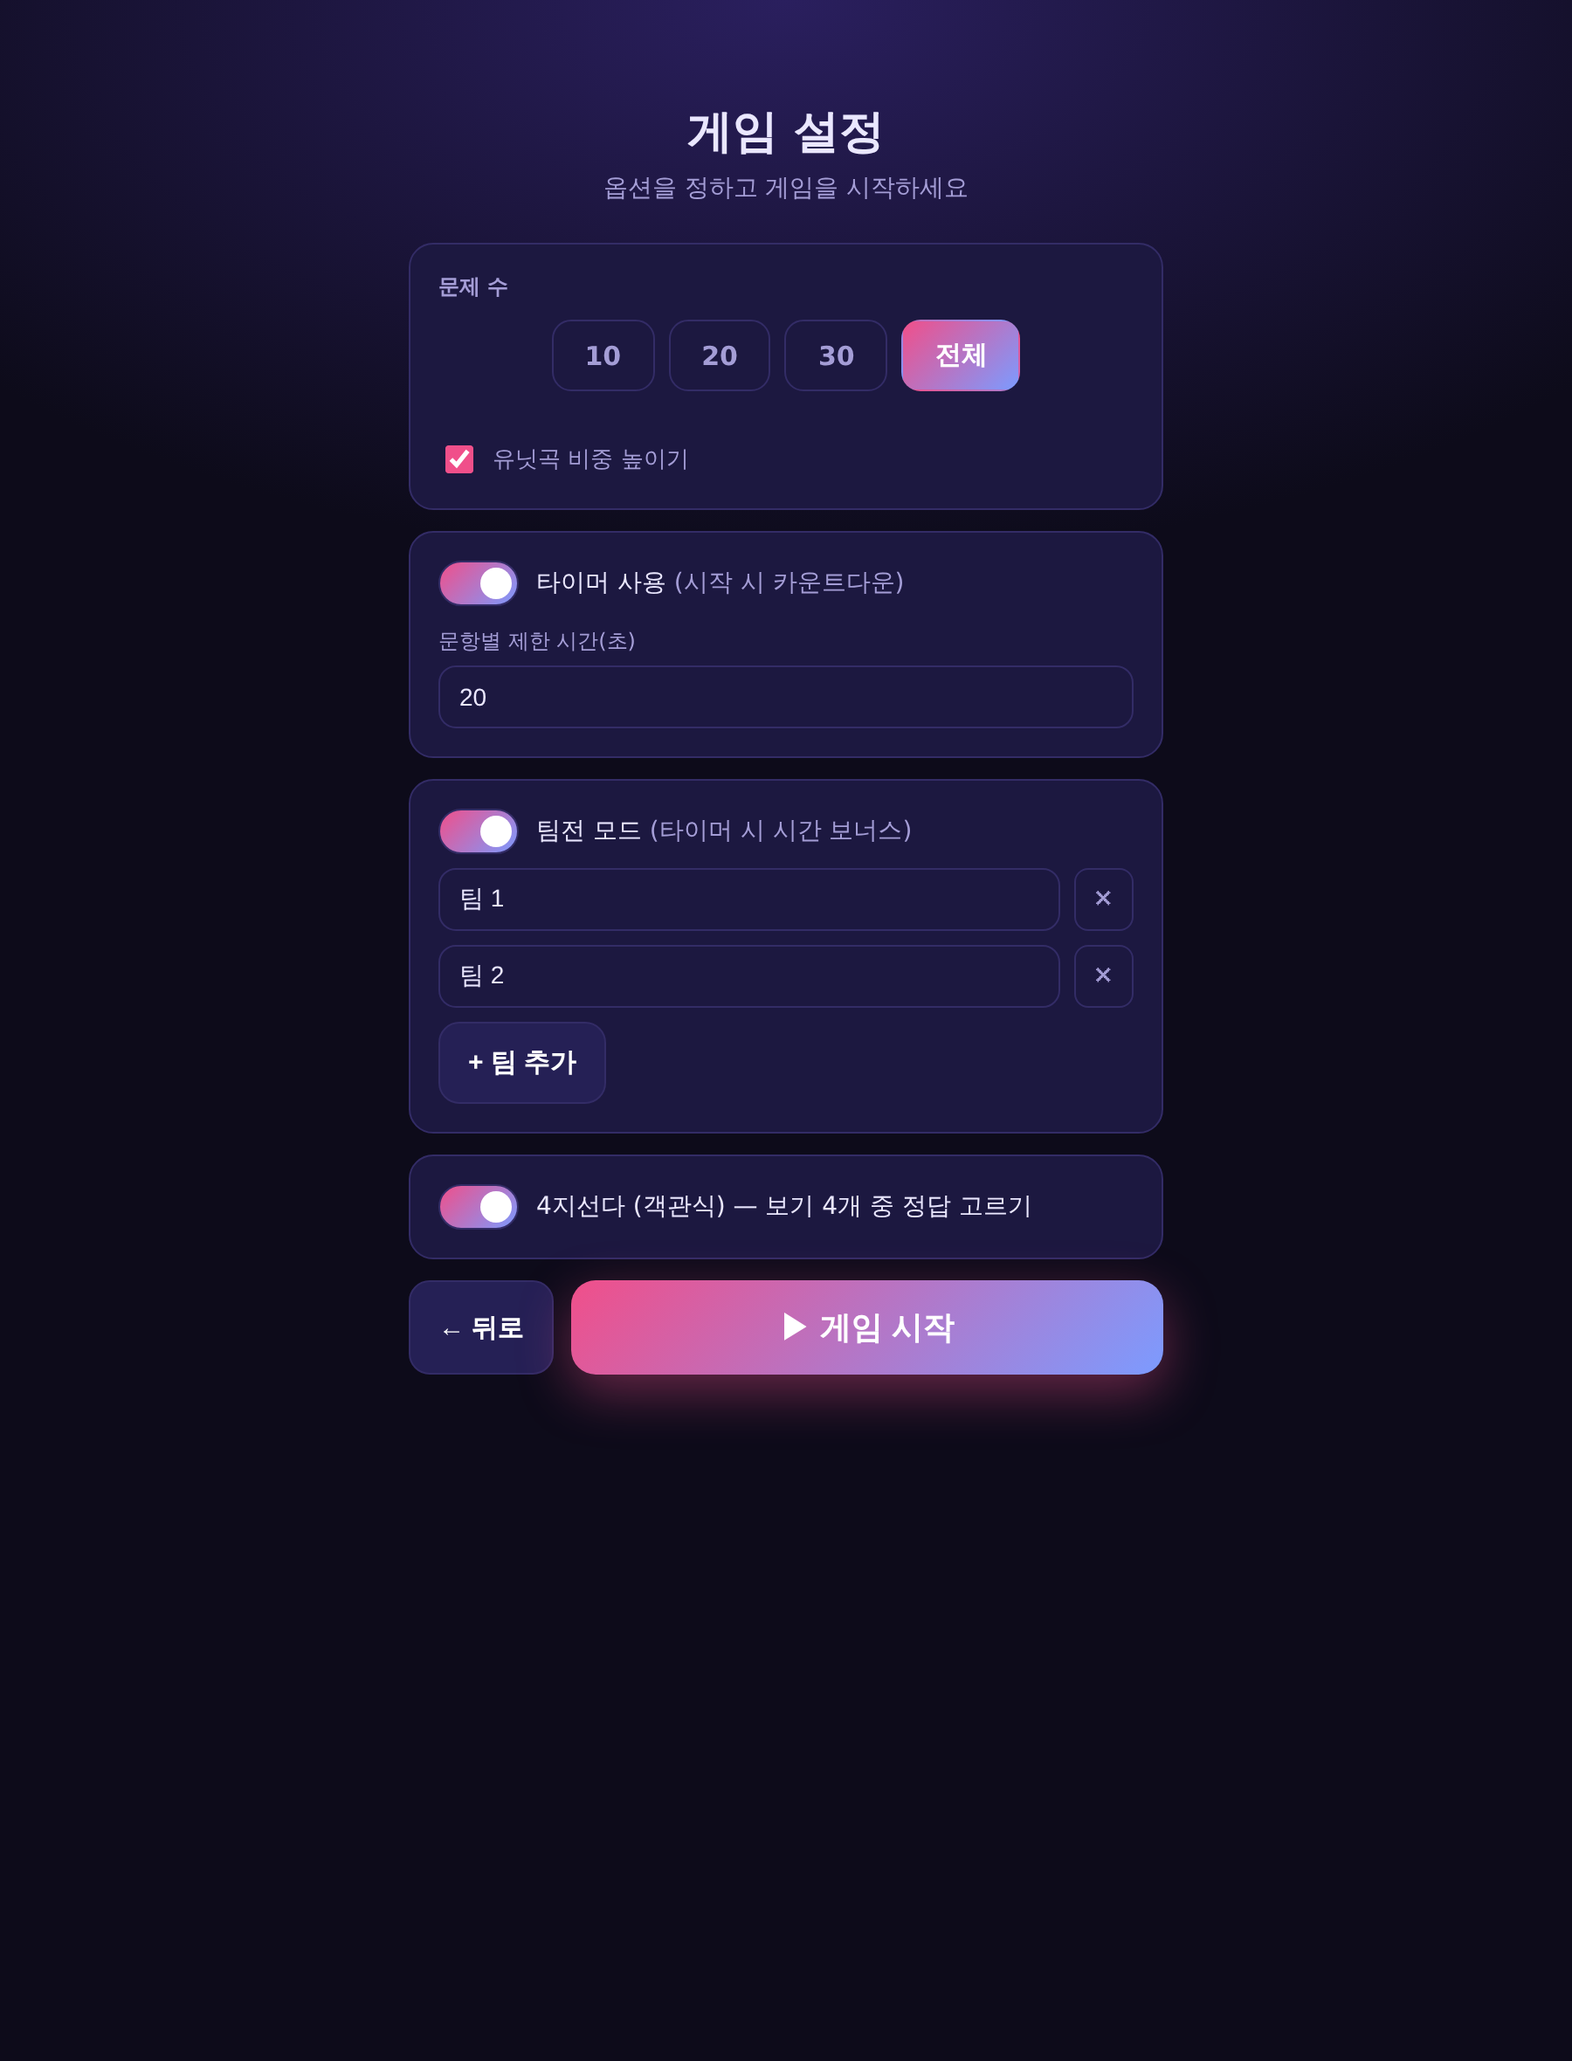
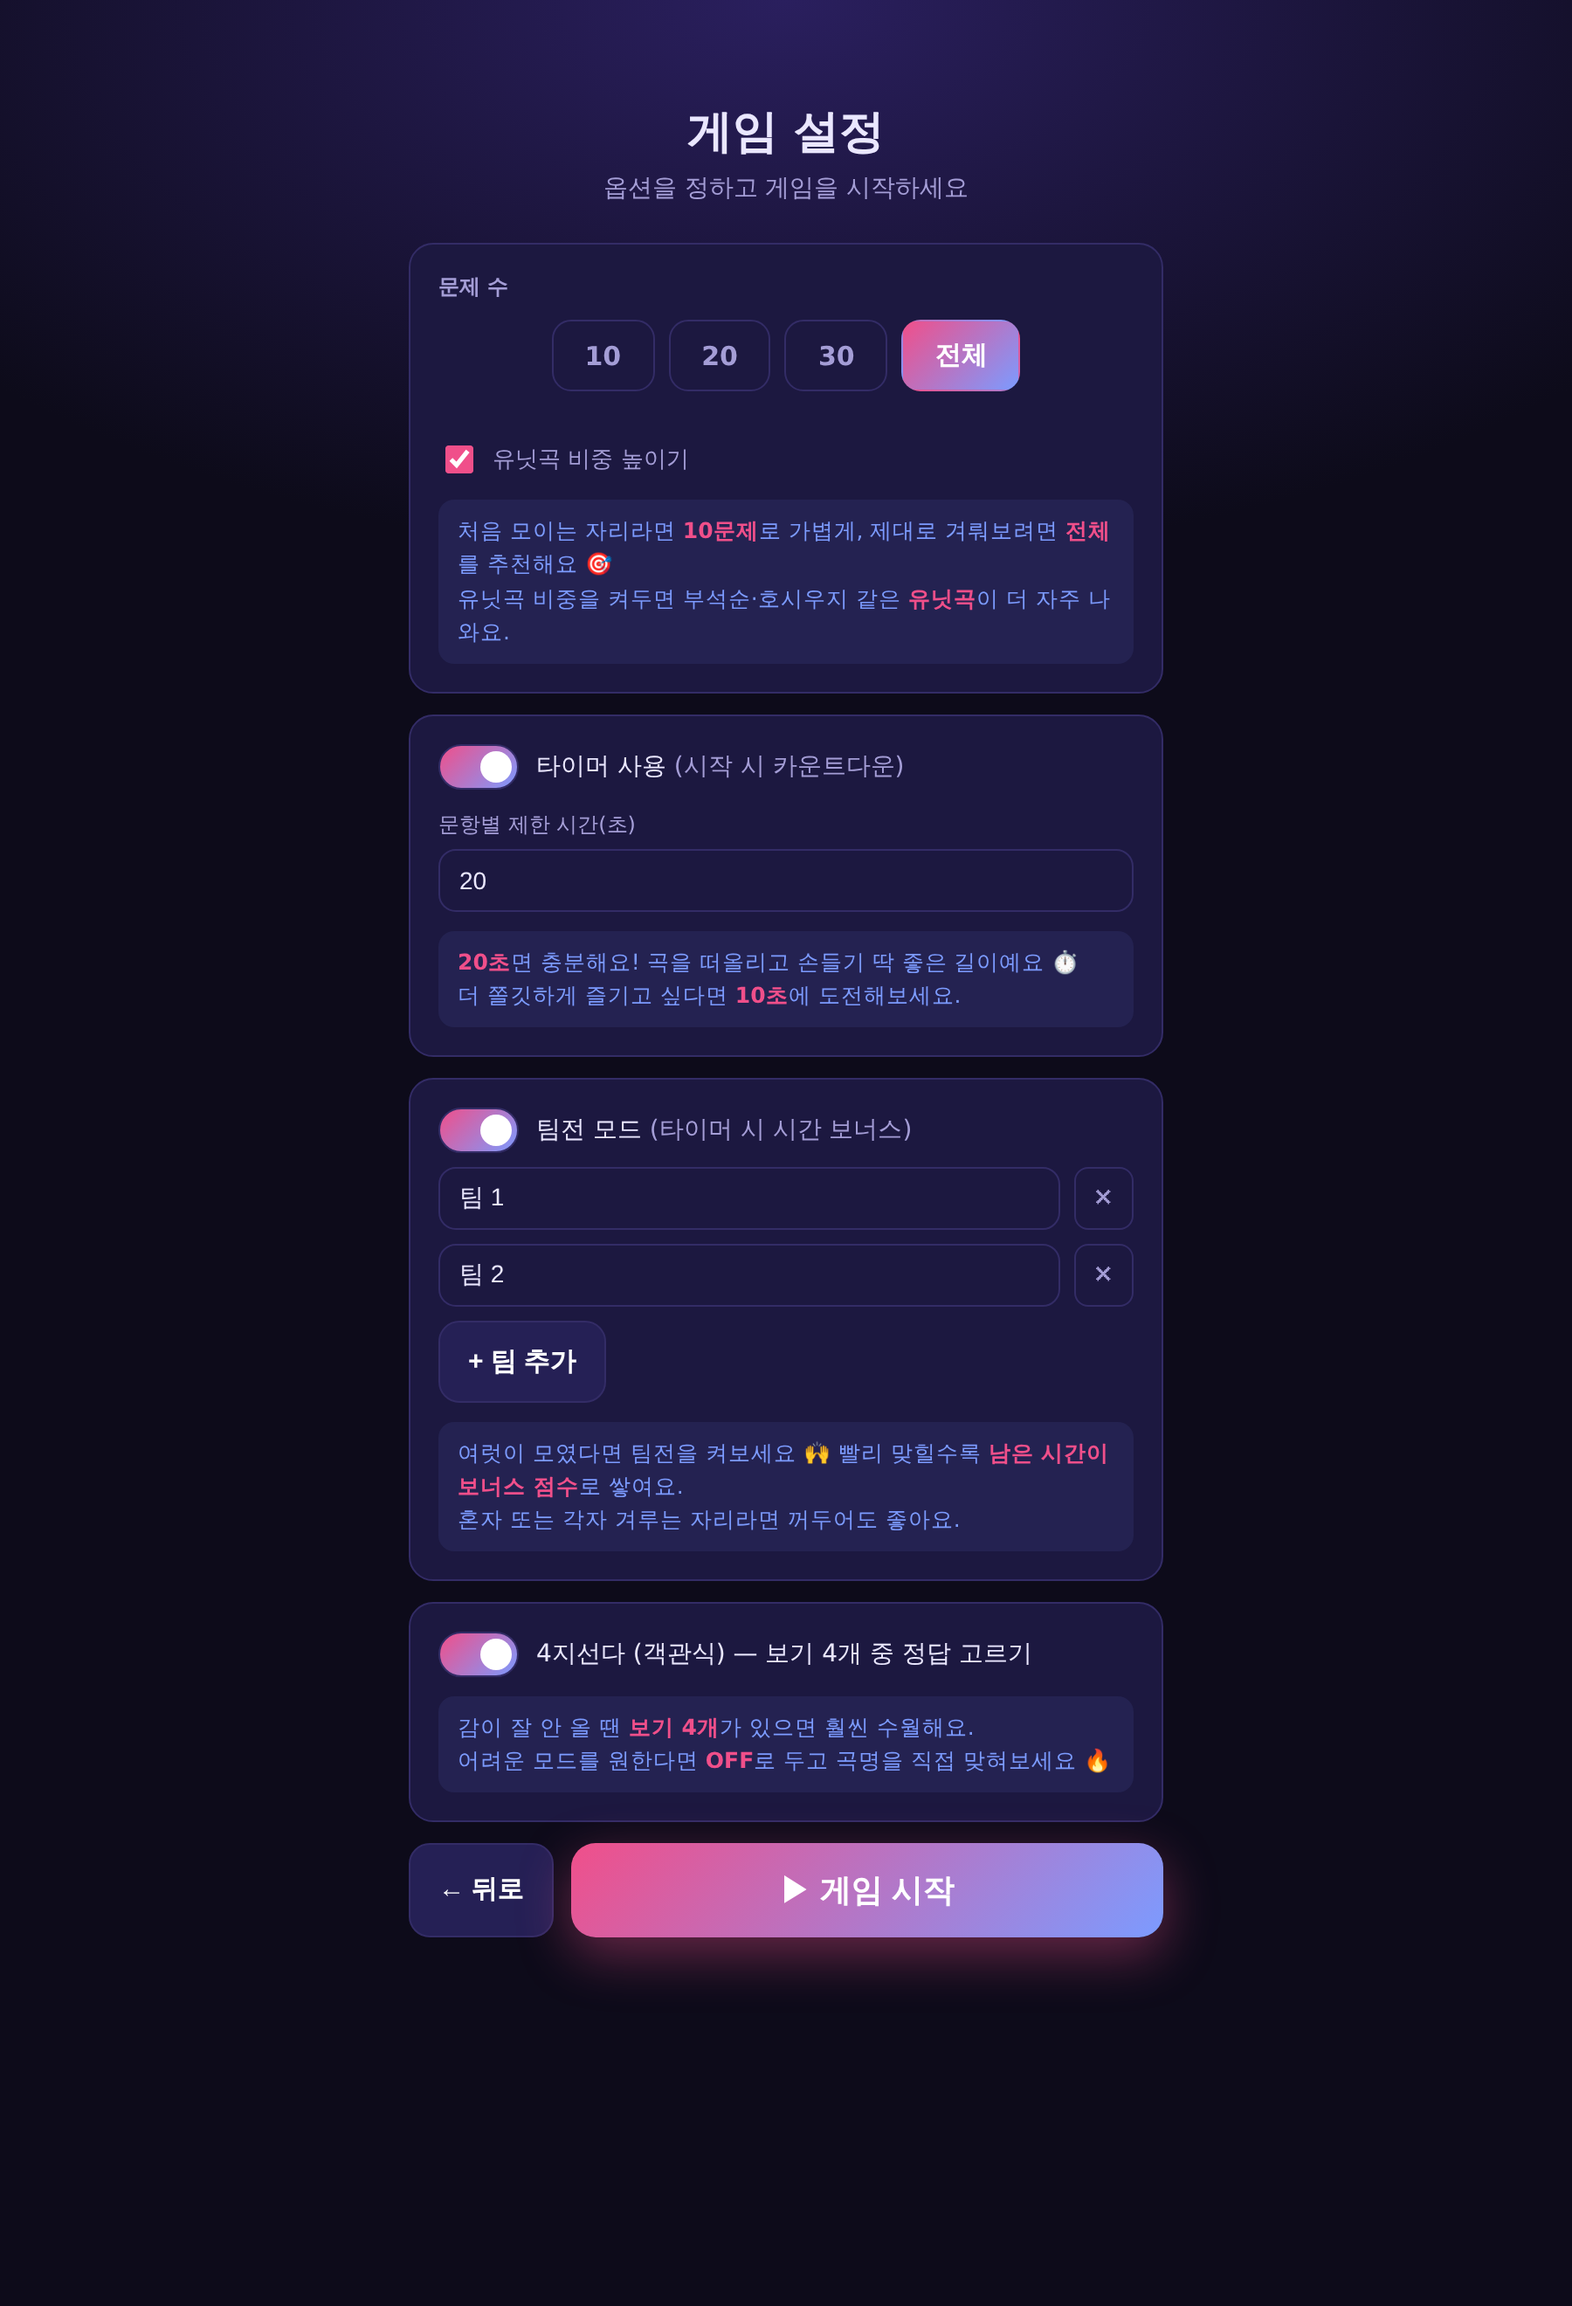
feat: 게임 설정 토스톤 안내문구 + 카드 전환 시 2초 뒤 자동 낭독
- 기본 설정 화면 각 옵션에 추천값·기획의도 안내(토스 마이크로카피 톤)
  · 문제 수: 처음이면 10문제, 제대로면 전체 추천
  · 타이머: "20초면 충분해요" (기본 20초) · 더 어렵게는 10초
  · 팀전: 여럿이면 켜기, 남은 시간이 보너스 점수
  · 4지선다: 어려운 모드를 원하면 OFF
- 문항(카드) 전환 시 2초 뒤 가사 TTS 자동 낭독 (수동 ▶ 낭독도 유지)
  · 게임 화면·가사 존재 시에만 예약, 전환/정지 시 이전 예약 취소
- 운영 가이드·README에 자동 낭독 반영, 설정 화면 스크린샷 갱신

Claude-Session: https://claude.ai/code/session_01BoVUxZZ7QKP6hKgrZ25vGv

diff --git a/index.html b/index.html
@@ -249,6 +249,8 @@
   .setup-sub{color:var(--muted);text-align:center;font-size:14px;margin:6px 0 22px}
   .setup-card{background:var(--panel);border:1px solid var(--line);border-radius:14px;padding:16px;margin-bottom:12px;text-align:left}
   .setup-label{font-size:12px;color:var(--muted);font-weight:800;margin-bottom:10px}
+  .setup-tip{font-size:12.5px;line-height:1.55;color:var(--serene);background:rgba(124,143,255,.09);border-radius:9px;padding:8px 11px;margin-top:11px}
+  .setup-tip b{color:var(--rose);font-weight:800}
   .setup-actions{display:flex;gap:10px;margin-top:8px}
   .slot-actions{display:flex;gap:8px;margin-bottom:12px;flex-wrap:wrap}
   .intro-setup{margin:2px 0 26px}
@@ -292,6 +294,7 @@
         <button type="button" data-n="0" class="on">전체</button>
       </div>
       <label class="intro-unit" style="margin-top:14px"><input type="checkbox" id="intro-unit" checked /><span>유닛곡 비중 높이기</span></label>
+      <div class="setup-tip">처음 모이는 자리라면 <b>10문제</b>로 가볍게, 제대로 겨뤄보려면 <b>전체</b>를 추천해요 🎯<br>유닛곡 비중을 켜두면 부석순·호시우지 같은 <b>유닛곡</b>이 더 자주 나와요.</div>
     </div>
 
     <div class="setup-card">
@@ -300,7 +303,8 @@
         <span style="font-size:14px">타이머 사용 <span style="color:var(--muted)">(시작 시 카운트다운)</span></span>
       </div>
       <label class="hint" style="display:block;margin:10px 0 4px">문항별 제한 시간(초)</label>
-      <input class="num-input" type="number" id="c-timersec" min="5" max="120" value="15" />
+      <input class="num-input" type="number" id="c-timersec" min="5" max="120" value="20" />
+      <div class="setup-tip"><b>20초</b>면 충분해요! 곡을 떠올리고 손들기 딱 좋은 길이예요 ⏱<br>더 쫄깃하게 즐기고 싶다면 <b>10초</b>에 도전해보세요.</div>
     </div>
 
     <div class="setup-card">
@@ -310,6 +314,7 @@
       </div>
       <div class="team-editor" id="c-team-editor"></div>
       <button class="btn btn-ghost btn-sm" id="c-team-add" style="margin-top:8px">+ 팀 추가</button>
+      <div class="setup-tip">여럿이 모였다면 팀전을 켜보세요 🙌 빨리 맞힐수록 <b>남은 시간이 보너스 점수</b>로 쌓여요.<br>혼자 또는 각자 겨루는 자리라면 꺼두어도 좋아요.</div>
     </div>
 
     <div class="setup-card">
@@ -317,6 +322,7 @@
         <label class="switch"><input type="checkbox" id="c-mc" /><span class="slider"></span></label>
         <span style="font-size:14px">4지선다 (객관식) — 보기 4개 중 정답 고르기</span>
       </div>
+      <div class="setup-tip">감이 잘 안 올 땐 <b>보기 4개</b>가 있으면 훨씬 수월해요.<br>어려운 모드를 원한다면 <b>OFF</b>로 두고 곡명을 직접 맞혀보세요 🔥</div>
     </div>
 
     <div class="setup-actions">
@@ -684,6 +690,7 @@ let teamScores = [];
 let turn = 0;
 let activeFilter = "all";
 let timerHandle = null, timerLeft = 0;
+let autoTTSHandle = null;   // 카드 전환 후 자동 낭독 예약 핸들
 let quizCount = null;        // 출제 문제 수 (null = 전체)
 let quizUnitBoost = true;    // 유닛곡 비중 높이기 (가중 랜덤)
 
@@ -998,6 +1005,7 @@ function renderGame(){
   applyHide(); hideAnswer(); updateCounters();
   resetTimer(); if(config.timerOn && gameActive) startTimer();   // 게임 시작·문항 전환 시 타이머 시작
   resetHints(); buildMcOptions(); renderMc();
+  scheduleAutoTTS();   // 카드 전환 시 2초 뒤 자동 낭독
 }
 
 function renderTeamBoard(){
@@ -1083,7 +1091,17 @@ function awardTeam(i,pts){
 let koVoice=null;
 function pickVoice(){ const vs=speechSynthesis.getVoices(); koVoice=vs.find(v=>v.lang==="ko-KR")||vs.find(v=>v.lang&&v.lang.startsWith("ko"))||null; }
 if("speechSynthesis" in window){ pickVoice(); speechSynthesis.onvoiceschanged=pickVoice; }
-function stopTTS(){ if("speechSynthesis" in window) speechSynthesis.cancel(); }
+function clearAutoTTS(){ if(autoTTSHandle){ clearTimeout(autoTTSHandle); autoTTSHandle=null; } }
+function scheduleAutoTTS(){
+  clearAutoTTS();
+  if(!gameActive) return;                       // 게임 시작 전에는 예약 안 함
+  const gv=document.getElementById("view-game");
+  if(!gv || !gv.classList.contains("active")) return;   // 게임 화면일 때만
+  if(order.length===0) return;
+  const c=getC(order[pos]); if(!c || !(c.lyrics||"").trim()) return;   // 가사 있을 때만
+  autoTTSHandle=setTimeout(()=>{ autoTTSHandle=null; speak(); }, 2000);
+}
+function stopTTS(){ clearAutoTTS(); if("speechSynthesis" in window) speechSynthesis.cancel(); }
 function speak(){
   if(!("speechSynthesis" in window)){ toast("이 브라우저는 음성 낭독을 지원하지 않습니다"); return; }
   if(order.length===0) return;

diff --git a/docs/OPERATION_GUIDE.md b/docs/OPERATION_GUIDE.md
@@ -37,7 +37,8 @@
 
 ```
 1) 가사 가리기 ON  → 화면엔 가사가 흐리게(듣기 전용)
-2) ▶ 가사 낭독      → 필요하면 속도를 낮춰 다시 낭독
+2) 카드 전환        → 새 문항으로 넘어가면 2초 뒤 가사가 자동 낭독됨
+                     (필요하면 ▶ 가사 낭독으로 다시, 속도를 낮춰 재낭독도 가능)
 3) 참가자 응답      → (팀전) 먼저 맞힌 팀 확인
 4) 정답 공개        → 곡명·파트 표시 + MV 해당 구간 재생
 5) 채점            → 개인전: 정답/오답 · 팀전: 맞힌 팀 버튼(+점수)
@@ -45,6 +46,7 @@
 ```
 
 **진행 팁**
+- 문항을 넘기면 **2초 뒤 자동으로 가사가 낭독**됩니다. 곧바로 다시 들려주려면 `▶ 가사 낭독`을 누르세요.
 - 난이도를 높이려면 낭독 속도를 올리고, 낮추려면 0.5~0.7배로 천천히 읽어줍니다.
 - `가사 가리기`를 끄면 화면의 가사를 함께 보여줄 수 있어 초보 팬 모임에 적합합니다.
 - 상단 **난이도 필터**로 "상만", "신곡만" 같은 특별 라운드를 운영할 수 있습니다.

diff --git a/README.md b/README.md
@@ -94,7 +94,7 @@ https://alfira0526.github.io/SVT_Lyrics/
 
 | 기능 | 설명 |
 |---|---|
-| 🔊 **TTS 낭독 + 속도 조절** | `SpeechSynthesis`로 가사를 읽어줍니다. 0.5~1.2배 속도(느리게=난이도↓, 빠르게=난이도↑) |
+| 🔊 **TTS 낭독 + 속도 조절** | `SpeechSynthesis`로 가사를 읽어줍니다. **문항 전환 시 2초 뒤 자동 낭독**, 0.5~1.2배 속도(느리게=난이도↓, 빠르게=난이도↑) |
 | 🙈 **가사 가리기 토글** | 화면의 가사를 흐리게 처리 → 듣기만으로 맞히는 변별 모드 |
 | 💡 **힌트 (랜덤 3개)** | 6종(구성·제목 초성·발매 연도·파트·첫 글자·앨범 종류) 중 문항마다 **랜덤 3개**를 순차 공개 |
 | 🔤 **4지선다 (객관식)** | 설정에서 켜면 문항마다 곡명 보기 4개(정답 1 + 실제 곡 오답 3) 제공. 클릭하면 정답/오답 표시 후 공개 |
